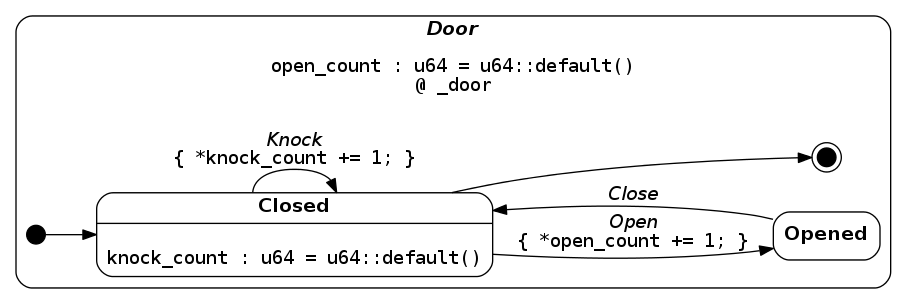
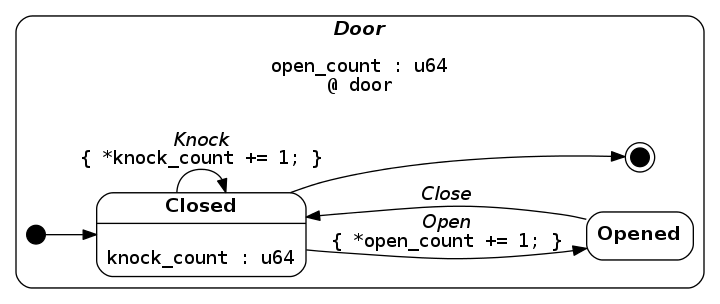
0.8.0: make hidden default for dotfile generation, add dotfile_show_defaults, allow unused self references

diff --git a/src/lib.rs b/src/lib.rs
@@ -2,18 +2,20 @@
 //!
 //! [Repository](https://github.com/spearman/macro-machines)
 //!
-//! An example `Door` state machine with:
+//! An example that shows a number of features of the macro syntax is a `Door`
+//! state machine with:
 //!
-//! - an `open_count` *extended state variable*
 //! - two *states*: `Closed` (with *state-local variable* `knock_count`) and
 //!   `Open`
 //! - three *events*: one *internal event* `Knock` (with *action* on the
 //!   `Closed` state) and two *external events* `Open` (wth associated action) and
 //!   `Close` (without any action)
+//! - an `open_count` *extended state variable* -- this variable is initialized
+//!   once and is independent of the current machine state
 //!
 //! ```text
 //! def_machine_debug! {
-//!   Door (open_count : u64) @ _door {
+//!   Door (open_count : u64) @ door {
 //!     STATES [
 //!       state Closed (knock_count : u64)
 //!       state Opened ()
@@ -26,21 +28,33 @@
 //!     initial_state:  Closed {
 //!       initial_action: {
 //!         println!("hello");
-//!         println!("open_count: {:?}", _door.as_ref().open_count);
+//!         println!("open_count: {:?}", door.as_ref().open_count);
 //!       }
 //!     }
 //!     terminal_state: Closed {
 //!       terminate_success: {
-//!         println!("open_count: {:?}", _door.as_ref().open_count);
+//!         println!("open_count: {:?}", door.as_ref().open_count);
 //!         println!("goodbye")
 //!       }
 //!       terminate_failure: {
-//!         panic!("door was left: {:?}", _door.state())
+//!         panic!("door was left: {:?}", door.state())
 //!       }
 //!     }
 //!   }
 //! }
 //! ```
+//!
+//! To optionally make the state machine accessible in initial and terminal
+//! action blocks, the macro implementation requires an identifier `door` be
+//! introduced here following the `@` symbol. The variable is then brought into
+//! scope as an alias for a mutable self-reference in initial and terminal
+//! action blocks.
+//!
+//! In event actions, mutable references to extended state variables will
+//! implicitly be brought into scope of the associated action block, however
+//! local state variables need to be explicitly listed in the LHS brace of the
+//! action construct to be accessible (e.g. the `knock_count` local state
+//! variable in the `Knock` event action of the current example).
 //!
 //! The `Door::dotfile()` function will generate a dotfile string that can be
 //! saved and rendered as a PNG with graphviz `dot` layout:
@@ -83,15 +97,15 @@ pub trait MachineDotfile {
   fn event_targets()              -> Vec <&'static str>;
   fn event_actions()              -> Vec <&'static str>;
   // provided: these are intended to be called by the user
-  /// Generate a dotfile for the state machine that shows default expressions
-  /// for state fields and extended state fields
-  fn dotfile() -> String where Self : Sized {
-    machine_dotfile::<Self> (false, false)
-  }
   /// Generate a dotfile for the state machine that hides default expressions
   /// for state fields and extended state fields
-  fn dotfile_hide_defaults() -> String where Self : Sized {
+  fn dotfile() -> String where Self : Sized {
     machine_dotfile::<Self> (true, false)
+  }
+  /// Generate a dotfile for the state machine that shows default expressions
+  /// for state fields and extended state fields
+  fn dotfile_show_defaults() -> String where Self : Sized {
+    machine_dotfile::<Self> (false, false)
   }
   /// Generate a dotfile for the state machine that pretty prints the *values*
   /// of default expressions for state fields and extended state fields.

diff --git a/src/macro_def.rs b/src/macro_def.rs
@@ -81,7 +81,8 @@ macro_rules! def_machine {
         let state = StateId::$initial.to_state (&mut extended_state);
         let mut _initial = Self { state, extended_state };
         {
-          $(let $self_reference = &mut _initial;)*
+          $(#[allow(unused_variables)]
+          let $self_reference = &mut _initial;)*
           $($($initial_action)*)*
         }
         _initial
@@ -700,7 +701,8 @@ macro_rules! def_machine {
         let state    = StateId::$initial.to_state (&mut extended_state);
         let mut _new = Self { state, extended_state };
         {
-          $(let $self_reference = &mut _new;)*
+          $(#[allow(unused_variables)]
+          let $self_reference = &mut _new;)*
           $($($initial_action)*)*
         }
         _new
@@ -787,7 +789,8 @@ macro_rules! def_machine {
       fn drop (&mut self) {
         trace!("{}::drop", stringify!($machine));
         let _state_id = self.state.id.clone();
-        $(let $self_reference = &mut *self;)*
+        $(#[allow(unused_variables)]
+        let $self_reference = &mut *self;)*
         $(
         if _state_id != StateId::$terminal {
           trace!("<<< current state ({:?}) != terminal state ({:?})",
@@ -1265,7 +1268,8 @@ macro_rules! def_machine_debug {
         let state = StateId::$initial.to_state (&mut extended_state);
         let mut _initial = Self { state, extended_state };
         {
-          $(let $self_reference = &mut _initial;)*
+          $(#[allow(unused_variables)]
+          let $self_reference = &mut _initial;)*
           $($($initial_action)*)*
         }
         _initial
@@ -1895,7 +1899,8 @@ macro_rules! def_machine_debug {
         let state    = StateId::$initial.to_state (&mut extended_state);
         let mut _new = Self { state, extended_state };
         {
-          $(let $self_reference = &mut _new;)*
+          $(#[allow(unused_variables)]
+          let $self_reference = &mut _new;)*
           $($($initial_action)*)*
         }
         _new
@@ -1977,7 +1982,8 @@ macro_rules! def_machine_debug {
       fn drop (&mut self) {
         trace!("{}::drop", stringify!($machine));
         let _state_id = self.state.id.clone();
-        $(let $self_reference = &mut *self;)*
+        $(#[allow(unused_variables)]
+        let $self_reference = &mut *self;)*
         $(
         if _state_id != StateId::$terminal {
           trace!("<<< current state ({:?}) != terminal state ({:?})",

diff --git a/examples/door-nodebug.rs b/examples/door-nodebug.rs
@@ -7,7 +7,7 @@ extern crate simplelog;
 #[macro_use] extern crate macro_machines;
 
 def_machine! {
-  Door (open_count : u64) @ _door {
+  Door (open_count : u64) @ door {
     STATES [
       state Closed (knock_count : u64)
       state Opened ()
@@ -20,16 +20,16 @@ def_machine! {
     initial_state:  Closed {
       initial_action: {
         println!("hello");
-        println!("open_count: {:?}", _door.as_ref().open_count);
+        println!("open_count: {:?}", door.as_ref().open_count);
       }
     }
     terminal_state: Closed {
       terminate_success: {
-        println!("open_count: {:?}", _door.as_ref().open_count);
+        println!("open_count: {:?}", door.as_ref().open_count);
         println!("goodbye")
       }
       terminate_failure: {
-        panic!("door was left: {:?}", _door.state().id())
+        panic!("door was left: {:?}", door.state().id())
       }
     }
   }
@@ -58,9 +58,9 @@ fn main () {
   unwrap!{ f.write_all (Door::dotfile().as_bytes()) };
   drop (f);
 
-  let dotfile_name = format!("{}-hide-defaults.dot", example_name);
+  let dotfile_name = format!("{}-show-defaults.dot", example_name);
   let mut f = unwrap!{ std::fs::File::create (dotfile_name) };
-  unwrap!{ f.write_all (Door::dotfile_hide_defaults().as_bytes()) };
+  unwrap!{ f.write_all (Door::dotfile_show_defaults().as_bytes()) };
   drop (f);
 
   let mut door = Door::initial();

diff --git a/examples/door.rs b/examples/door.rs
@@ -7,7 +7,7 @@ extern crate simplelog;
 #[macro_use] extern crate macro_machines;
 
 def_machine_debug! {
-  Door (open_count : u64) @ _door {
+  Door (open_count : u64) @ door {
     STATES [
       state Closed (knock_count : u64)
       state Opened ()
@@ -20,16 +20,16 @@ def_machine_debug! {
     initial_state:  Closed {
       initial_action: {
         println!("hello");
-        println!("open_count: {:?}", _door.as_ref().open_count);
+        println!("open_count: {:?}", door.as_ref().open_count);
       }
     }
     terminal_state: Closed {
       terminate_success: {
-        println!("open_count: {:?}", _door.as_ref().open_count);
+        println!("open_count: {:?}", door.as_ref().open_count);
         println!("goodbye")
       }
       terminate_failure: {
-        panic!("door was left: {:?}", _door.state())
+        panic!("door was left: {:?}", door.state())
       }
     }
   }
@@ -56,9 +56,9 @@ fn main () {
   unwrap!(f.write_all (Door::dotfile().as_bytes()));
   drop (f);
 
-  let dotfile_name = format!("{}-hide-defaults.dot", example_name);
+  let dotfile_name = format!("{}-show-defaults.dot", example_name);
   let mut f = unwrap!(std::fs::File::create (dotfile_name));
-  unwrap!(f.write_all (Door::dotfile_hide_defaults().as_bytes()));
+  unwrap!(f.write_all (Door::dotfile_show_defaults().as_bytes()));
   drop (f);
 
   let mut door = Door::initial();

diff --git a/examples/generic.rs b/examples/generic.rs
@@ -11,7 +11,7 @@ def_machine_nodefault_debug!{
     x   : X,
     rx  : std::sync::mpsc::Receiver <X> = std::sync::mpsc::channel().1,
     foo : u64
-  ) @ _g {
+  ) @ g {
     STATES [
       state S ()
       state T (t : u64 = *foo)
@@ -20,7 +20,7 @@ def_machine_nodefault_debug!{
       event A <S> => <T> ()
     ]
     initial_state: S {
-      initial_action: { println!("initial G: {:?}", _g) }
+      initial_action: { println!("initial G: {:?}", g) }
     }
   }
 }
@@ -45,7 +45,7 @@ fn main () {
 
   let dotfile_name = format!("{}.dot", example_name);
   let mut f = unwrap!(std::fs::File::create (dotfile_name));
-  unwrap!(f.write_all (G::<f64>::dotfile().as_bytes()));
+  unwrap!(f.write_all (G::<f64>::dotfile_show_defaults().as_bytes()));
   drop (f);
 
   //let mut g = G::<std::sync::mpsc::Receiver <f64>>::initial();

diff --git a/examples/generic-nodebug.rs b/examples/generic-nodebug.rs
@@ -46,7 +46,7 @@ fn main () {
 
   let dotfile_name = format!("{}.dot", example_name);
   let mut f = unwrap!(std::fs::File::create (dotfile_name));
-  unwrap!(f.write_all (G::<Nodebug>::dotfile().as_bytes()));
+  unwrap!(f.write_all (G::<Nodebug>::dotfile_show_defaults().as_bytes()));
   drop (f);
 
   //let mut g = G::<std::sync::mpsc::Receiver <f64>>::initial();

diff --git a/examples/minimal.rs b/examples/minimal.rs
@@ -38,7 +38,7 @@ fn main () {
 
   let dotfile_name = format!("{}.dot", example_name);
   let mut f = unwrap!(std::fs::File::create (dotfile_name));
-  unwrap!(f.write_all (M::dotfile().as_bytes()));
+  unwrap!(f.write_all (M::dotfile_show_defaults().as_bytes()));
   drop (f);
 
   let mut m = M::initial();

diff --git a/examples/params.rs b/examples/params.rs
@@ -39,7 +39,7 @@ fn main () {
 
   let dotfile_name = format!("{}.dot", example_name);
   let mut f = unwrap!(std::fs::File::create (dotfile_name));
-  unwrap!(f.write_all (M::dotfile().as_bytes()));
+  unwrap!(f.write_all (M::dotfile_show_defaults().as_bytes()));
   drop (f);
 
   let mut m = M::initial();

diff --git a/examples/universal-nodebug.rs b/examples/universal-nodebug.rs
@@ -41,7 +41,7 @@ fn main () {
 
   let dotfile_name = format!("{}.dot", example_name);
   let mut f = unwrap!(std::fs::File::create (dotfile_name));
-  unwrap!(f.write_all (M::dotfile().as_bytes()));
+  unwrap!(f.write_all (M::dotfile_show_defaults().as_bytes()));
   drop (f);
 
   let mut m = M::initial();

diff --git a/examples/universal.rs b/examples/universal.rs
@@ -41,7 +41,7 @@ fn main () {
 
   let dotfile_name = format!("{}.dot", example_name);
   let mut f = unwrap!(std::fs::File::create (dotfile_name));
-  unwrap!(f.write_all (M::dotfile().as_bytes()));
+  unwrap!(f.write_all (M::dotfile_show_defaults().as_bytes()));
   drop (f);
 
   let mut m = M::initial();
